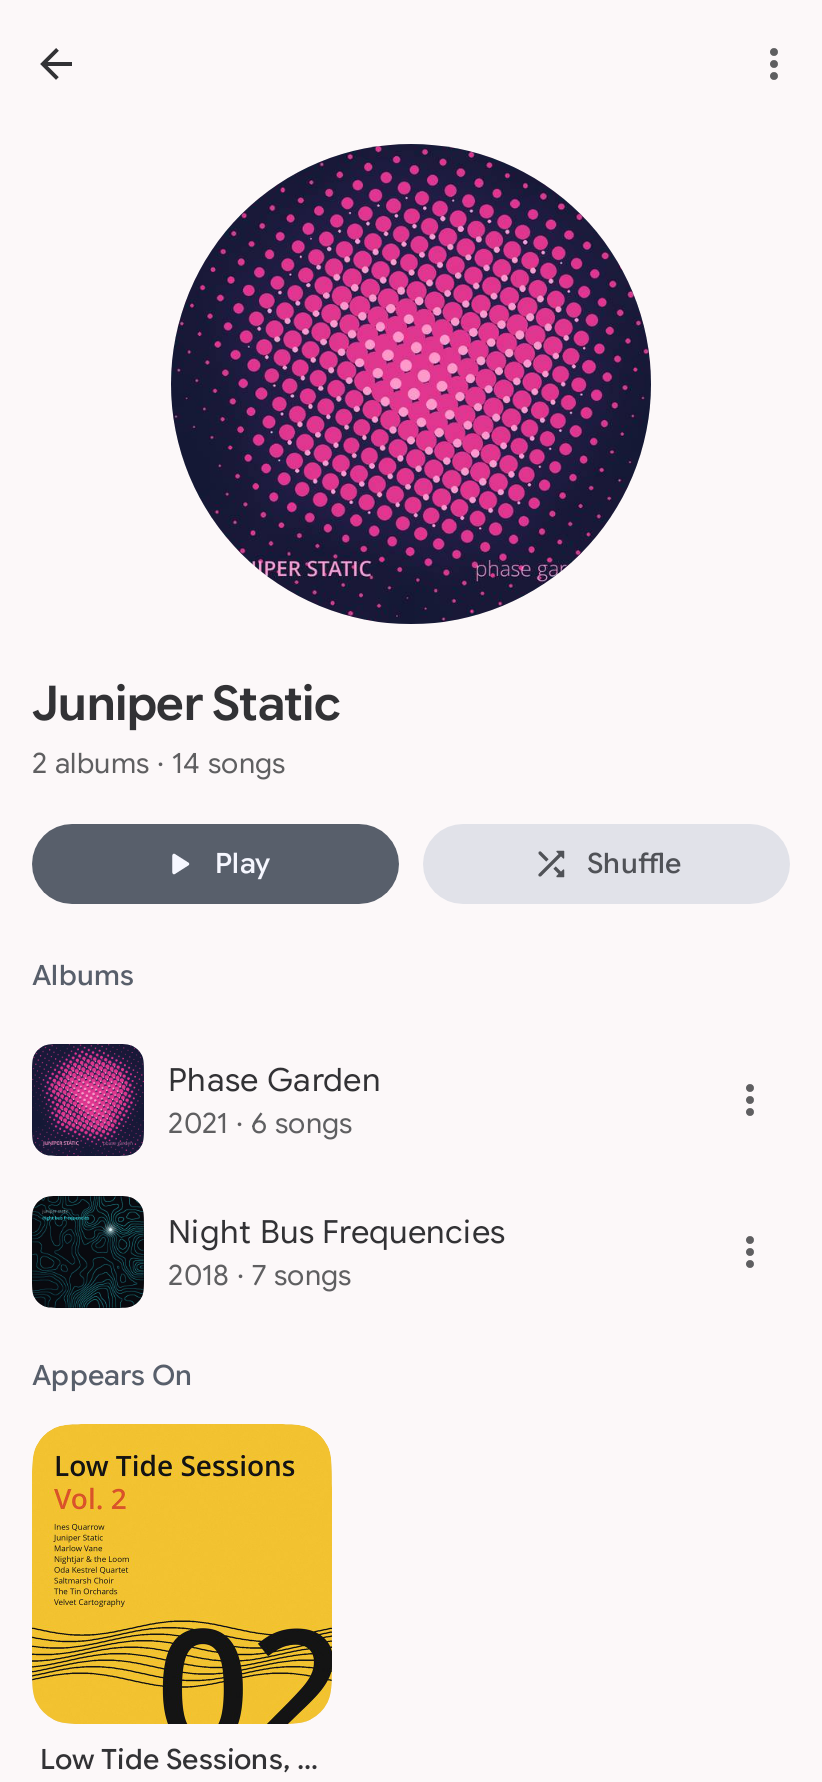
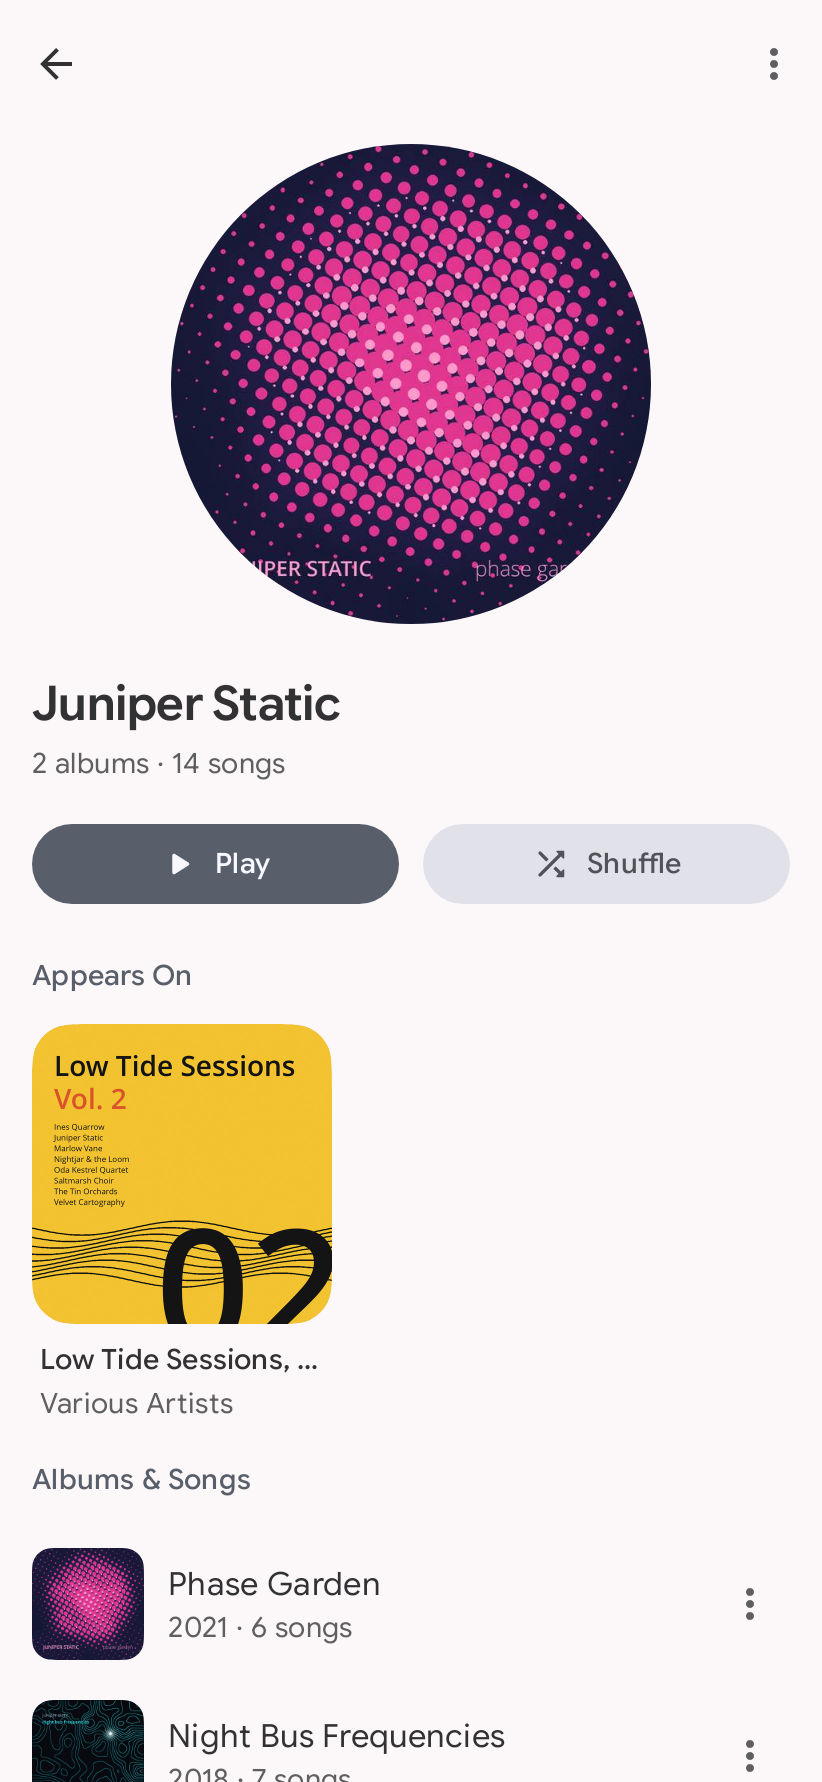
test(app): re-record artist detail baselines
The grouped shots show the albums as the song list; a new flat shot
(phone-artist-detail-flat) shows the Albums shelf over one song list (#678).

Changed region(s): [[0.0304, 0.5247, 0.6083, 1.0]]

diff --git a/android/app/src/test/java/com/simplecityapps/shuttle/ui/screens/library/LibraryScreenshotTest.kt b/android/app/src/test/java/com/simplecityapps/shuttle/ui/screens/library/LibraryScreenshotTest.kt
@@ -9,6 +9,7 @@ import com.github.takahirom.roborazzi.roborazziSystemPropertyTaskType
 import com.simplecityapps.shuttle.fixtures.SampleLibrary
 import com.simplecityapps.shuttle.model.SmartPlaylistId
 import com.simplecityapps.shuttle.persistence.LibraryTab
+import com.simplecityapps.shuttle.sorting.ArtistSongSortOrder
 import com.simplecityapps.shuttle.ui.DocsDesignRoborazziOptions
 import com.simplecityapps.shuttle.ui.SampleArtworkCoil
 import com.simplecityapps.shuttle.ui.preview.sampleSongs
@@ -161,6 +162,24 @@ class LibraryScreenshotTest {
             ),
         )
         shot("phone-artist-detail")
+    }
+
+    /** Juniper Static's songs listed flat by title, under the Albums section they bring back (#678). */
+    @Test
+    @Config(qualifiers = "w411dp-h891dp-xhdpi")
+    fun phoneArtistDetailFlat() {
+        val artist = SampleLibrary.artist("Juniper Static")
+        val artistSongs = artist.albums.flatMap { album -> album.songs.map { it.toSong() } }
+        val artistAlbums = artist.albums.map { album -> albumOf(album.songs.map { it.toSong() }, year = album.year) }
+        detail.setAlbumArtist(
+            readyAlbumArtistDetail(
+                artist = artist.toAlbumArtist(),
+                songs = artistSongs.sortedBy { it.name },
+                albums = artistAlbums,
+                sortOrder = ArtistSongSortOrder.SongTitle,
+            ),
+        )
+        shot("phone-artist-detail-flat")
     }
 
     /** Juniper Static's albums, folded, then Appears On: the compilation carrying their live edit (#637). */
